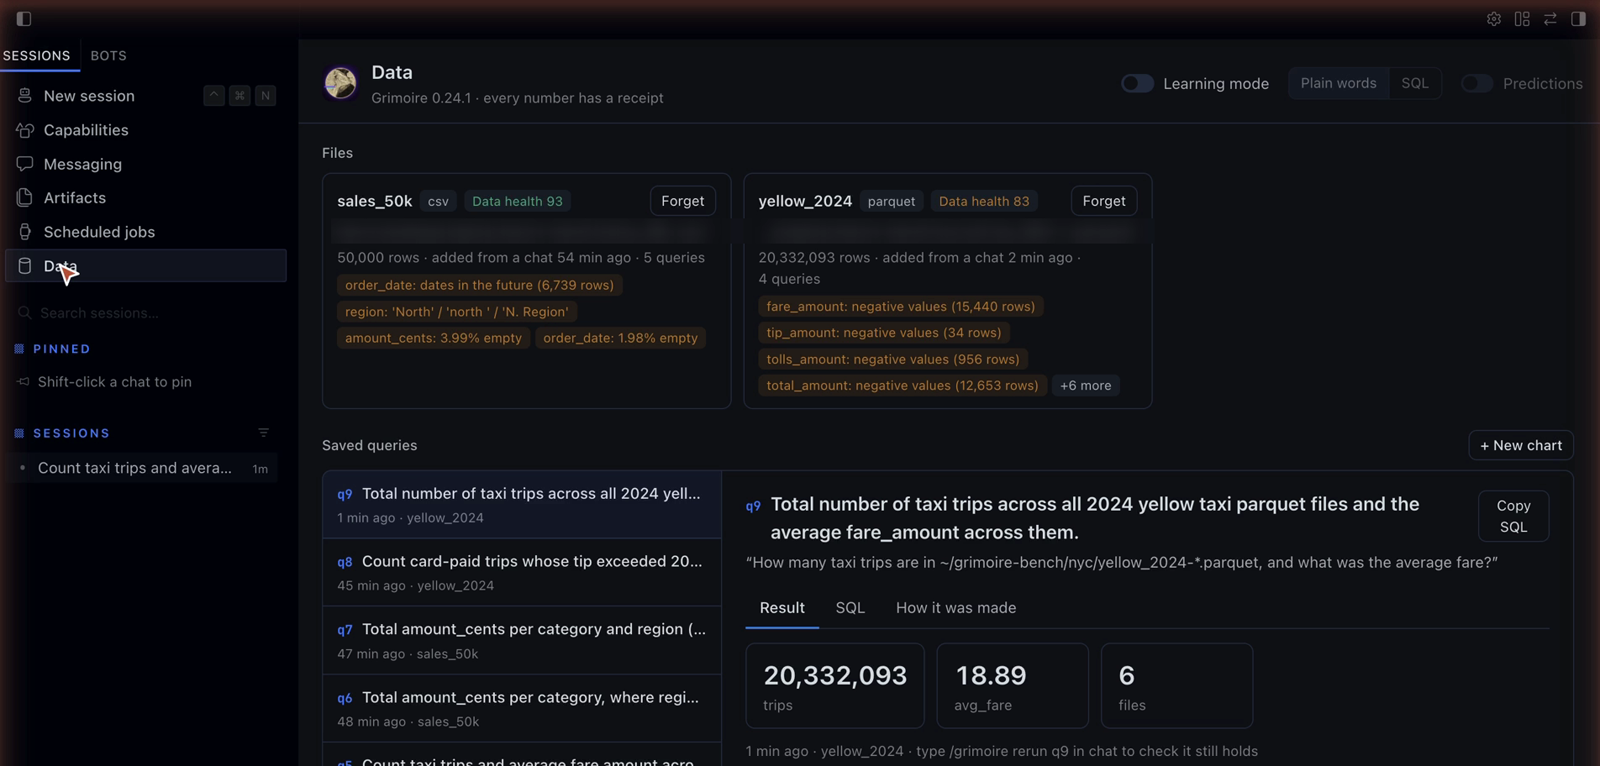
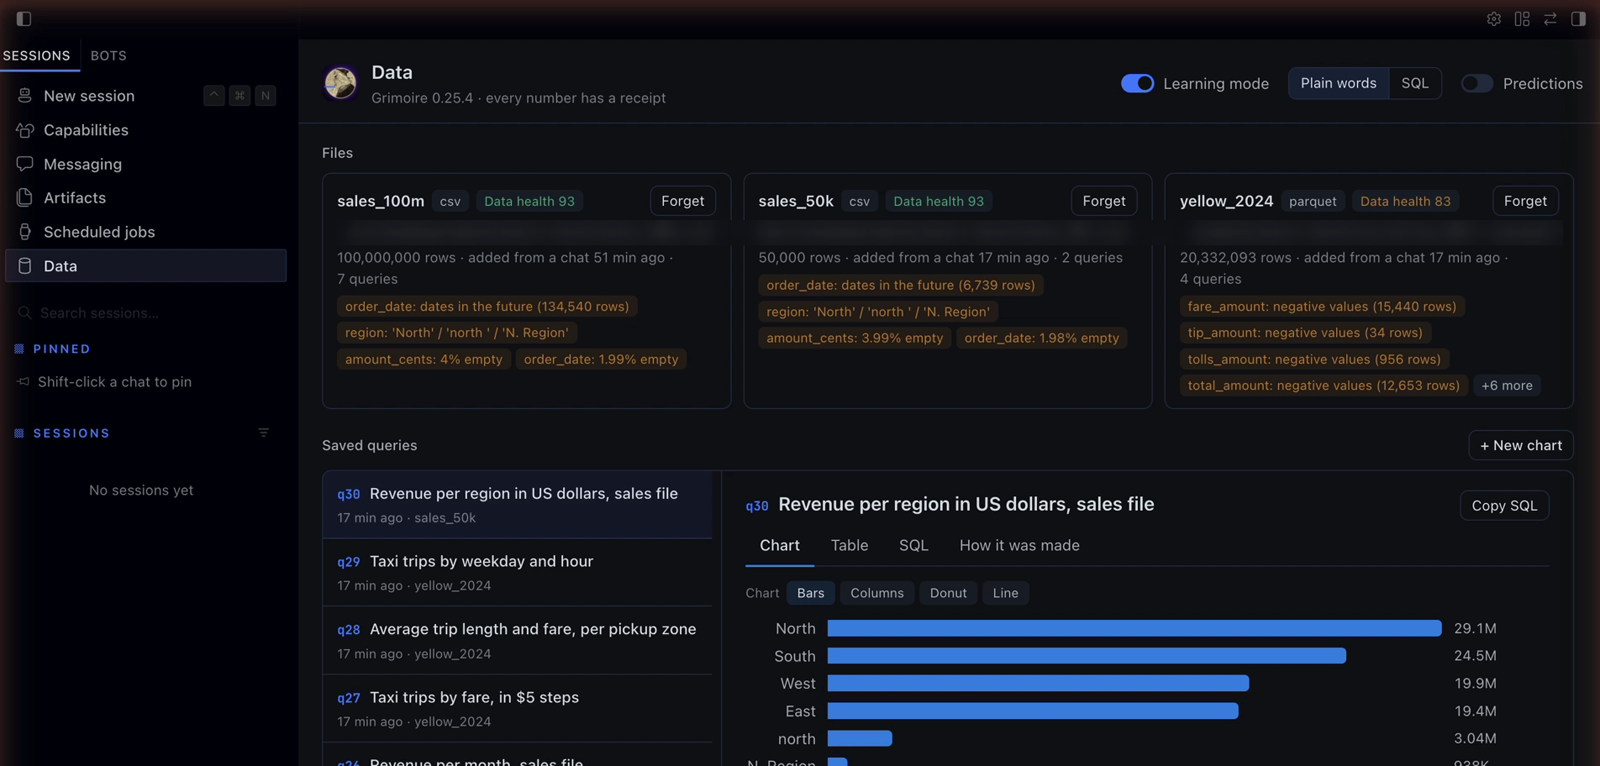
README: Claude benchmark, 0-token charts and learning, new screenshots

diff --git a/README.md b/README.md
@@ -5,11 +5,14 @@
 Ask Hermes about your data files, and get answers that are fast, cheap and checked.
 Every number has a receipt.
 
-- **Fast and light:** DuckDB answers with one SQL query, so the model never reads your rows.
-  Same question, same free model: 18 s instead of 48 s, and half the input tokens.
+- **Fast on big files:** DuckDB answers with one SQL query, so the model never reads your rows.
+  100 million rows in a 5 GB CSV: 12 s instead of 182 s, same question, same model (Claude Sonnet 5.5).
+- **Fewer tokens:** about 35,500 input tokens per answer on Claude Haiku, Sonnet and Opus 5.5, with 2 model calls.
+  That is 17% to 56% fewer than plain Hermes in 15 of 18 benchmark tests.
 - **Checked:** after each reply, Grimoire checks every number against the query results and flags the ones with no source.
-- **Charts with no tokens:** a Data page in Hermes Desktop with ten chart views, pivots, drill-down and a health score for each file.
-- **Learning mode:** see how each answer was made, step by step, in plain words or SQL.
+- **Study your data with 0 tokens:** a Data page in Hermes Desktop with ten chart views, pivots, drill-down and a health score for each file.
+  Plugin code makes all of it, with no model call.
+- **Learn as you go, 0 tokens:** learning mode shows how each answer was made, step by step, in plain words or SQL.
 
 Works with CSV, TSV, JSON, NDJSON (also `.gz` and `.zst`), Parquet and SQLite files, and with a folder or pattern such as `sales_*.csv` read as one table.
 
@@ -53,7 +56,7 @@ Works with CSV, TSV, JSON, NDJSON (also `.gz` and `.zst`), Parquet and SQLite fi
 Name a data file in your message and ask your question in plain words.
 You do not need to set anything up, and all your other Hermes tools keep working.
 
-![A chat answer with Grimoire's check under it: 6 of 7 numbers trace, one made-up total, and one region spelled three ways.](assets/screenshots/chat-check.png)
+![A chat answer with Grimoire's check under it: all 7 numbers trace, one by simple arithmetic, and a warning that one region is spelled three ways.](assets/screenshots/chat-check.png)
 
 Each answer cites its query, like `[q3]`.
 Under the answer, Grimoire adds its check:
@@ -61,7 +64,7 @@ Under the answer, Grimoire adds its check:
 | Line | Means |
 |---|---|
 | `Grimoire check: all 2 numbers trace to query results` | Every number in the reply comes from a query result, or from simple arithmetic on numbers the reply shows |
-| `No source query for: 33.02M` | The model wrote a number that no query produced. Here it added three numbers itself instead of in SQL |
+| `No source query for: 2,000` | The model wrote a number that no query produced, for example a rounded or made-up count |
 | `Check how these were worked out: …` | The number only matches by combining two values the reply does not show, so it may be a coincidence |
 | `Assumes: left out 1,996 of 50,000 rows (empty amount)` | What the query's filters dropped |
 | `Watch out: 'North' / 'north ' / 'N. Region' look like one value…` | A common mistake in the method or the data |
@@ -69,6 +72,7 @@ Under the answer, Grimoire adds its check:
 
 A real example: on a free model, the model once forgot to divide cents by 100 and reported North at $2,905M.
 Query q42 said $29.05M, and Grimoire flagged every number in the reply.
+In the benchmark, plain Hermes on Claude Opus 5.5 made the opposite mistake: it divided by 100 twice, so every region total was 100 times too small.
 
 To see the SQL and result behind any number, type `/grimoire sql q3`.
 
@@ -77,7 +81,7 @@ To see the SQL and result behind any number, type `/grimoire sql q3`.
 Hermes Desktop gets a **Data** page with your files, every saved query, and the learning switches.
 Everything on this page runs on your computer and uses no model tokens.
 
-![The Data page: two files with their health scores and data problems, and the saved queries with a result.](assets/screenshots/data-page.png)
+![The Data page: three files with their health scores and data problems, and the saved queries with a chart.](assets/screenshots/data-page.png)
 
 ### Data health
 
@@ -94,7 +98,7 @@ Files up to 1,000,000 rows are checked as soon as you name them; the Data page c
 Every saved query opens with a chart that fits its result, with tabs for **Chart**, **Table**, **SQL** and **How it was made**.
 One click switches the chart type, and hovering a mark shows its value.
 
-![Six chart views: a weekday by hour heatmap, a scatter, a histogram, an area chart, a donut and a pivot table.](assets/screenshots/charts.png)
+![Six chart views: a weekday by hour heatmap, a scatter, a histogram, an area chart with its trend, a donut and a pivot table.](assets/screenshots/charts.png)
 
 | Result shape | Chart |
 |---|---|
@@ -137,7 +141,7 @@ Switch it on with the **Learning mode** switch on the Data page, or type `/grimo
 | SQL | **SQL** on the Data page, or `/grimoire learn sql` | One SQL idea per answer, taken from the query that produced it |
 | Predictions | **Predictions** on the Data page, or `/grimoire learn predict on` | Grimoire asks you to guess the main number first, then scores your guess |
 
-![A learning card under an answer: five numbered steps with row counts, the result, and a question to ask next.](assets/screenshots/learning-card.png)
+![A learning card under an answer: seven numbered steps, the result compared with the runner-up, and a question to ask next.](assets/screenshots/learning-card.png)
 
 `/grimoire explain q12` shows each step next to its SQL.
 Turn learning mode off with the same switch or `/grimoire learn off`.
@@ -187,24 +191,26 @@ The HTML report shows every number with its SQL, sortable tables, the right char
 
 ## Speed and tokens
 
-One real run in Hermes Desktop: the same question on 20.3M rows of NYC taxi data, the same free model.
+One real run in Hermes Desktop: the same question on 100 million rows (a 5 GB CSV), the same model, Claude Sonnet 5.5.
 
-![Plain Hermes and Hermes with Grimoire side by side: 48 s, 87,464 input tokens and 5 tool calls against 18 s, 41,997 input tokens and 2 tool calls.](assets/screenshots/race.png)
+![Plain Hermes and Hermes with Grimoire side by side: 182 s, 61,767 input tokens and 2 tool calls against 12 s, 42,132 input tokens and 1 tool call.](assets/screenshots/race.png)
 
-The benchmark repeats this over many questions, with medians ([details](bench/RESULTS.md)).
+The benchmark repeats this with 8 questions per file on Claude Haiku, Sonnet and Opus 5.5, with medians ([all results](bench/RESULTS.md)).
 Input tokens include cached tokens.
 
-| | Plain Hermes | Hermes with Grimoire | Data bot |
-|---|---|---|---|
-| Correct, 8 questions on a 50k-row sales file | 8 of 8 | 8 of 8 | 8 of 8 |
-| Input tokens per answer | 65,362 | 23,572 (64% fewer) | 4,436 (93% fewer) |
-| Time per answer | 33 s | 15 s | 16 s |
-| Correct, 6 questions on 20.3M taxi rows | 6 of 6 | 6 of 6 | 6 of 6 |
-| Input tokens per answer | 123,437 | 23,866 (81% fewer) | 5,037 (96% fewer) |
-| Time per answer | 75 s | 12 s | 12 s |
-| Tool calls per answer (taxi) | 10 | 1 | 1 |
+| | Plain Hermes | Hermes with Grimoire |
+|---|---|---|
+| Correct answers, 132 questions on 3 models | 131 | 132 |
+| Time per answer, 100M-row CSV (Sonnet) | 170 s | 9 s |
+| Time per answer, 100M-row Parquet (Sonnet) | 8 s | 5 s |
+| Input tokens per answer, 100M-row CSV (Opus) | 69,865 | 35,466 (49% fewer) |
+| Input tokens per answer, taxi Parquet (Sonnet) | 34,138 | 35,958 (5% more) |
+| Model calls per answer | 2 to 4 | 2 |
+| Number check, charts, pivots, learning cards | not built in | built in, 0 tokens |
 
-Grimoire and DuckDB take under 0.3 s of each answer; the rest is the model writing.
+Grimoire is fastest against plain Hermes on large CSV files (5x to 19x); on Parquet plain Hermes is closer (1.2x to 2.5x).
+On most tests Grimoire uses fewer tokens; in 3 of 18 tests plain Hermes used up to 5% fewer.
+The optional Data bot, with only Grimoire's tools, used 4,400 to 5,000 input tokens per answer in an earlier run on a free model.
 Run the benchmark yourself with `bench/make_data.py` and `bench/run.py`.
 
 ## All features
